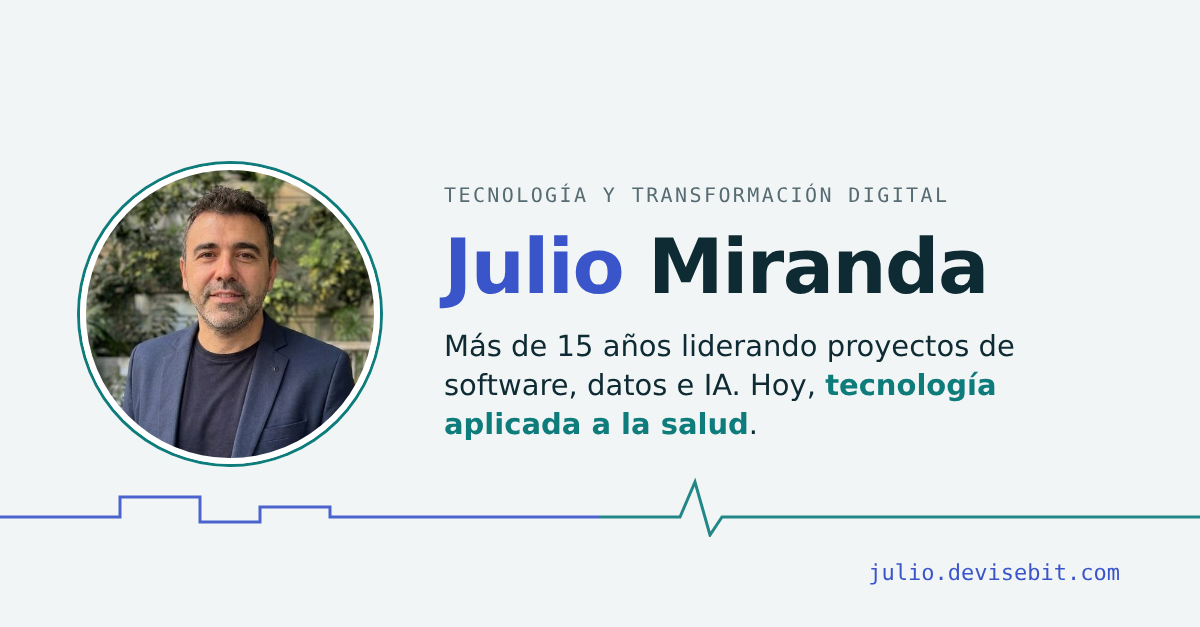
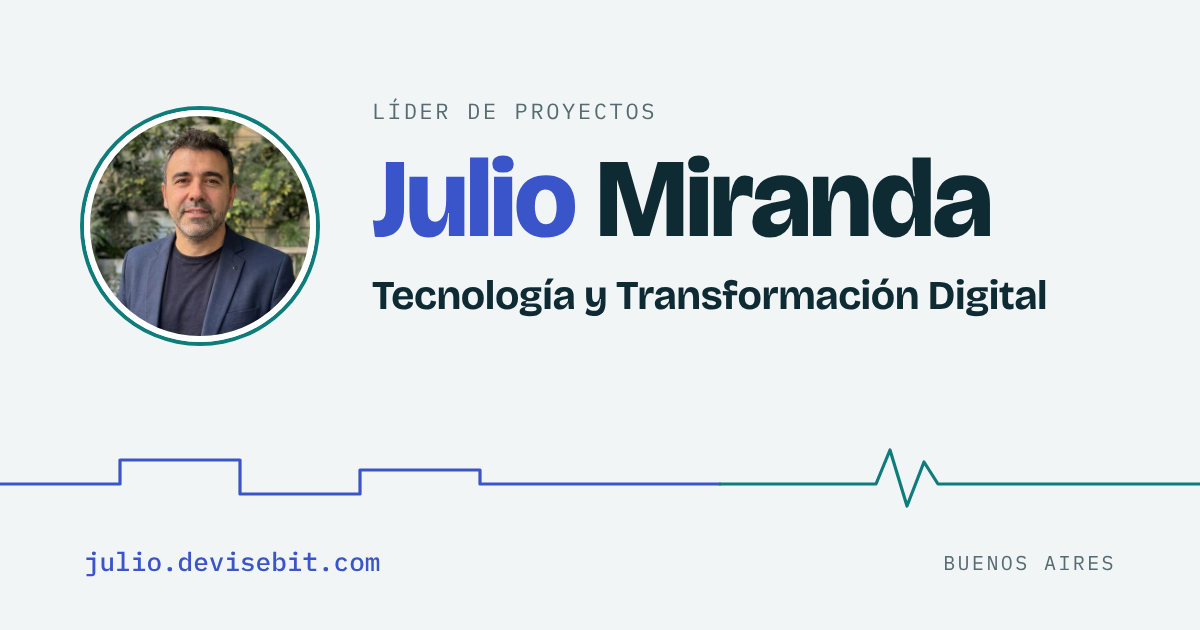
Imágenes para compartir: og.png nueva sin la frase de salud y og-en.png en inglés
1200×630, con nombre, «Tecnología y Transformación Digital» y julio.devisebit.com. Las páginas en inglés usan og-en.png. og-cv.jpg no cambia.

Claude-Session: https://claude.ai/code/session_01JmMyMx5xkRVq9qy2k5XnPQ

diff --git a/en/portfolio.html b/en/portfolio.html
@@ -6,9 +6,9 @@
 <meta property="og:title" content="Portfolio · Julio Miranda">
 <meta property="og:description" content="Julio Miranda's project archive, 2009–2026: from the first digital newspaper in Catamarca to healthcare technology management. Portals, apps, federal platforms, online academies and management systems.">
 <meta property="og:type" content="website">
-<meta property="og:image" content="https://julio.devisebit.com/og.png">
+<meta property="og:image" content="https://julio.devisebit.com/og-en.png">
 <meta property="og:image:width" content="1200">
-<meta property="og:image:height" content="627">
+<meta property="og:image:height" content="630">
 <meta property="og:url" content="https://julio.devisebit.com/en/portfolio.html">
 <meta name="twitter:card" content="summary_large_image">
 <meta property="og:locale" content="en_US">

diff --git a/en/index.html b/en/index.html
@@ -6,9 +6,9 @@
 <meta property="og:title" content="Julio Miranda · Technology &amp; Digital Transformation">
 <meta property="og:description" content="Julio Miranda · Technology &amp; Digital Transformation · Project Leader. 17 years leading software, data and digital transformation projects.">
 <meta property="og:type" content="website">
-<meta property="og:image" content="https://julio.devisebit.com/og.png">
+<meta property="og:image" content="https://julio.devisebit.com/og-en.png">
 <meta property="og:image:width" content="1200">
-<meta property="og:image:height" content="627">
+<meta property="og:image:height" content="630">
 <meta property="og:url" content="https://julio.devisebit.com/en/">
 <meta name="twitter:card" content="summary_large_image">
 <meta property="og:locale" content="en_US">

diff --git a/en/historia.html b/en/historia.html
@@ -6,9 +6,9 @@
 <meta property="og:title" content="My story · Julio Miranda">
 <meta property="og:description" content="Julio Miranda's story in eight chapters and one idea: technology at the service of organizations. From Tucumán and Catamarca to Buenos Aires and San Luis.">
 <meta property="og:type" content="website">
-<meta property="og:image" content="https://julio.devisebit.com/og.png">
+<meta property="og:image" content="https://julio.devisebit.com/og-en.png">
 <meta property="og:image:width" content="1200">
-<meta property="og:image:height" content="627">
+<meta property="og:image:height" content="630">
 <meta property="og:url" content="https://julio.devisebit.com/en/historia.html">
 <meta name="twitter:card" content="summary_large_image">
 <meta property="og:locale" content="en_US">

diff --git a/portfolio.html b/portfolio.html
@@ -8,7 +8,7 @@
 <meta property="og:type" content="website">
 <meta property="og:image" content="https://julio.devisebit.com/og.png">
 <meta property="og:image:width" content="1200">
-<meta property="og:image:height" content="627">
+<meta property="og:image:height" content="630">
 <meta property="og:url" content="https://julio.devisebit.com/portfolio.html">
 <meta name="twitter:card" content="summary_large_image">
 <meta property="og:locale" content="es_AR">

diff --git a/historia.html b/historia.html
@@ -8,7 +8,7 @@
 <meta property="og:type" content="website">
 <meta property="og:image" content="https://julio.devisebit.com/og.png">
 <meta property="og:image:width" content="1200">
-<meta property="og:image:height" content="627">
+<meta property="og:image:height" content="630">
 <meta property="og:url" content="https://julio.devisebit.com/historia.html">
 <meta name="twitter:card" content="summary_large_image">
 <meta property="og:locale" content="es_AR">

diff --git a/index.html b/index.html
@@ -8,7 +8,7 @@
 <meta property="og:type" content="website">
 <meta property="og:image" content="https://julio.devisebit.com/og.png">
 <meta property="og:image:width" content="1200">
-<meta property="og:image:height" content="627">
+<meta property="og:image:height" content="630">
 <meta property="og:url" content="https://julio.devisebit.com/">
 <meta name="twitter:card" content="summary_large_image">
 <meta property="og:locale" content="es_AR">
